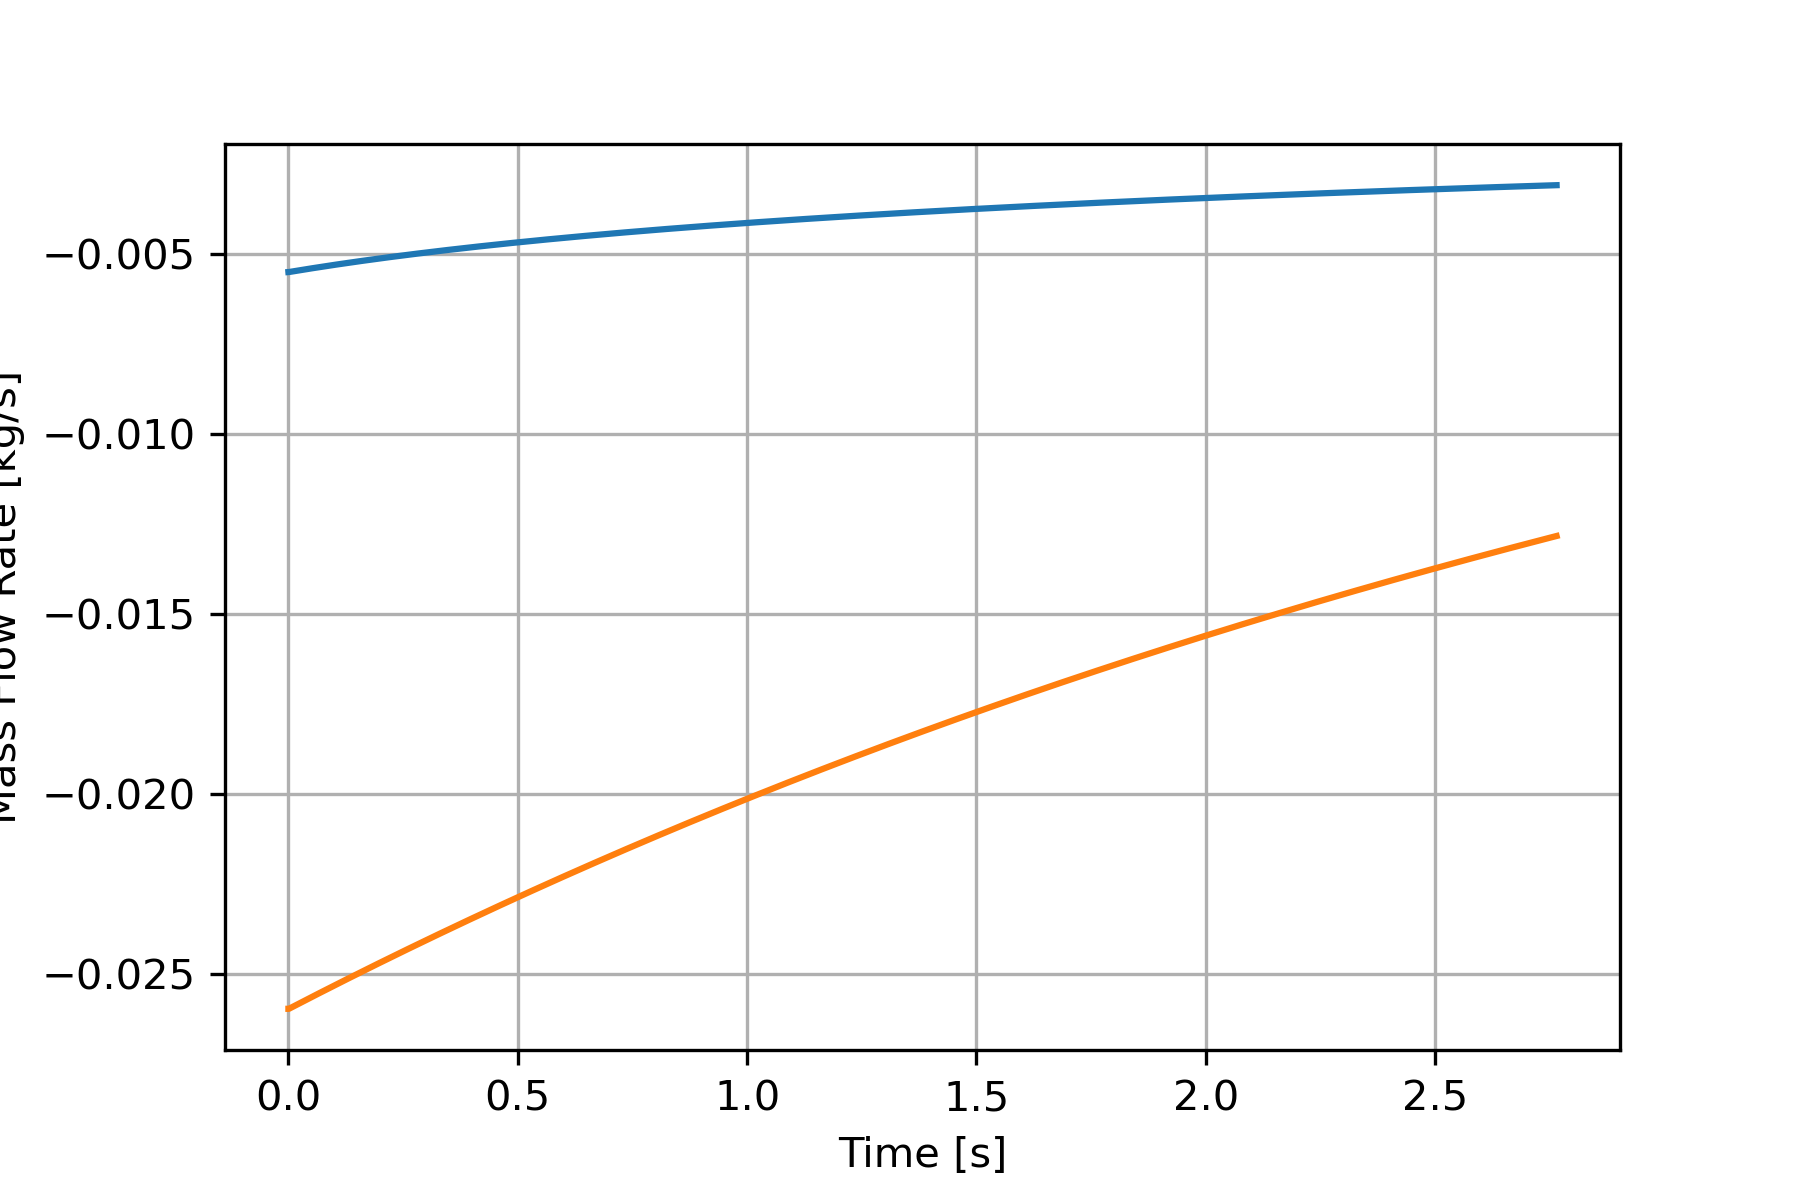
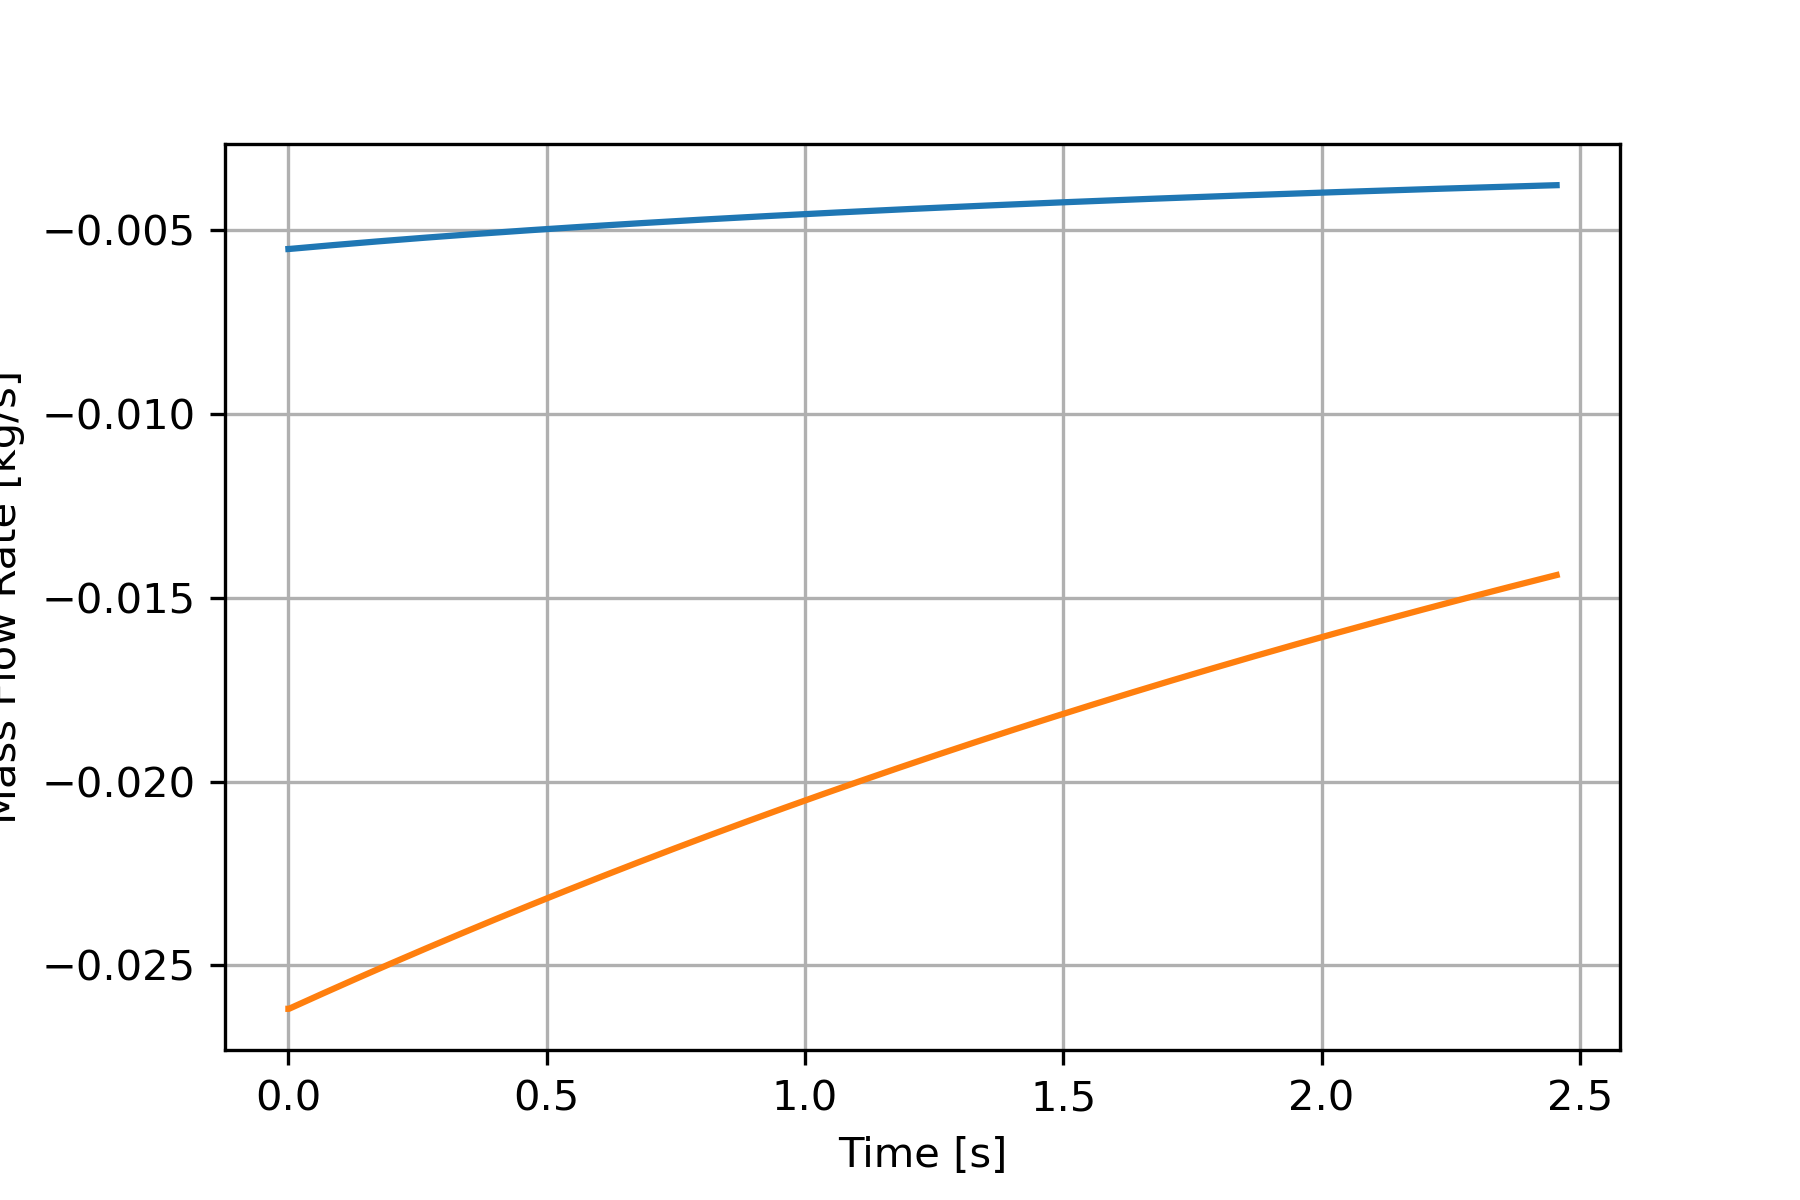
Updated air tank blowout with mach speed limit and Nozzle Cd
Using tank blowout equation from: https://www.et.byu.edu/~wheeler/Tank_Blowdown_Math.pdf

diff --git a/Blowout/AirBlowout.py b/Blowout/AirBlowout.py
@@ -16,9 +16,8 @@ class Solver:
     def __init__(self, Ptank):
         self.Ptank = Ptank
     
-    
-    def airTank(self, dt, Vtank, Aexit, tf):
-        """Numerically solves air tank blowout, using tank parameters and timestp dt"""
+    def airTank(self, dt, Vtank, Aexit, tf, Cd):
+        """Numerically solves air tank blowout, using tank parameters and timestep dt"""
         #initial Parameters
         Pstart = self.Ptank
         m0 = (self.Ptank*Vtank)/(self.R*self.T0)
@@ -31,7 +30,7 @@ class Solver:
         T = [self.T0]
         rho =[m0/Vtank]
         time = [t]
-        mdot = [-(rho[0]*Aexit*np.sqrt(2*(Pstart-self.P0)/rho[0]))]
+        mdot = [-Aexit*rho[0]*((self.gamma*self.R*T[0])**(1/2))*((2/(self.gamma+1))**((self.gamma+1)/(2*(self.gamma-1))))]
         print("mdot start: ", mdot[0])
         
         
@@ -44,7 +43,7 @@ class Solver:
                 T1 = T[count]
             
             #mass flowrate
-            mdot1 = -(rho[count]*Aexit*np.sqrt(2*(P[count]-self.P0)/rho[count]))
+            mdot1 = -Aexit*rho[count]*((self.gamma*self.R*T[count])**(1/2))*((2/(self.gamma+1))**((self.gamma+1)/(2*(self.gamma-1))))
             mdot.append(mdot1)
                 
             #mass
@@ -57,13 +56,12 @@ class Solver:
             
             #Temperature
             T1 = P1*T[count]/P[count]
+            T1 = self.T0
             T.append(T1)
             
             #Density
             rho1 = m[count+1]/Vtank
-            rho.append(rho1)
-
-           
+            rho.append(rho1) 
             
             t += dt
             time.append(t)
@@ -75,12 +73,13 @@ class Solver:
         return mdot, P,T, time
     
     def fuelTank(self, dt, Aexit, VR, m0):
-        """Numerically solves fuel tank blowout, using tank parameters and timestp dt"""
+        """Numerically solves fuel tank blowout, using tank parameters and timestep dt"""
         
         #initial Parameters
         rho_f = 1590 #kg/m^3, density of sucrose
         Pstart = self.Ptank
-        V0 = rho_f*m0/VR
+        V0 = rho_f*m0/VR #Volume of air
+        mair = Pstart*V0/(self.R*self.T0)
         
         t = 0
         
@@ -88,6 +87,7 @@ class Solver:
         P = [Pstart]
         V = [V0]
         m = [m0]
+        T = [self.T0]
         time = [t]
         mdot = [-(rho_f*Aexit*np.sqrt(2*(Pstart-self.P0)/rho_f))]
         Vdot = [mdot[0]*rho_f]
@@ -100,7 +100,7 @@ class Solver:
             Vdot1 = -mdot[count]*rho_f
             Vdot.append(Vdot1)
             
-            #Volume in tank
+            #Volume of air in tank 
             V1 = V[count]+ (Vdot[count+1]+Vdot[count])*dt*0.5
             V.append(V1)
             
@@ -116,13 +116,17 @@ class Solver:
             m1 = m[count] + (mdot[count+1]+mdot[count])*dt*0.5
             m.append(m1)
             
+            #Temperature
+            T1 = P[count]*V[count]/(mair*self.R)
+            T.append(T1)
+            
             t += dt
             time.append(t)
             
             count += 1
             
         print("Time: ",t,"mass: ", m[count], "mdot: ", mdot[count], "Pressure: ",P[count])
-        return mdot, P, time
+        return mdot, P, T, time
         
     def OFratio(self, mdot_a,mdot_f):
         """Calculates OF ratio from air and fuel tank blowout"""
@@ -148,22 +152,24 @@ class Solver:
 """Fuel tank Calcs"""
 Pt = 11*10**5           #Pa, initial pressure in both tanks
 Ae_f = 9.77809*10**-8   #m^2, Exit Area
-VR = 1.000              #Volume ratio of fuel to air in fuel tank
+VR = 0.600              #Volume ratio of fuel to air in fuel tank
 m_f = 0.01100           #kg, inital fuel mass
 
 dt = 0.001
 
 SolverInstance = Solver(Pt)
 
-mdot_f, P_f, t = SolverInstance.fuelTank(dt, Ae_f, VR, m_f)
+mdot_f, P_f, T_f, t = SolverInstance.fuelTank(dt, Ae_f, VR, m_f)
 
 """Air tank calcs"""
 V_a = 0.00806903       #m^3, volume of air tank
-Ae_a = 5.04112*10**-6  #m^2, Exit Area
+Ae_a = 1.00000*10**-5  #m^2, Exit Area
+Cd_a = 0.8
 
 tf = t[-1]
 
-mdot_a, P_a, T_a, t_a = SolverInstance.airTank(dt, V_a, Ae_a, tf)
+mdot_a, P_a, T_a, t_a = SolverInstance.airTank(dt, V_a, Ae_a, tf, Cd_a)
+
 
 OF = SolverInstance.OFratio(mdot_a,mdot_f)
 
@@ -198,22 +204,24 @@ plt.legend()
 
 plt.figure(3)
 plt.clf()
+plt.plot(t, T_f, label='Fuel Tank')
+plt.plot(t_a, T_a, label='Air Tank')
+
+plt.grid(1)
+plt.xlabel("Time [s]")
+plt.ylabel("Tempurature [K]")
+plt.savefig('Temp_vs_time.png', dpi=300)
+plt.legend()
+
+
+plt.figure(4)
+plt.clf()
 plt.plot(t, OF)
 
 plt.grid(1)
 plt.xlabel("Time [s]")
 plt.ylabel("OF ratio")
 plt.savefig('OF_vs_time.png', dpi=300)
-
-plt.figure(4)
-plt.clf()
-plt.plot(t_a, T_a)
-
-plt.grid(1)
-plt.xlabel("Time [s]")
-plt.ylabel("Tempurature")
-plt.savefig('Temp_vs_time.png', dpi=300)
-
 
 
 plt.ion()
